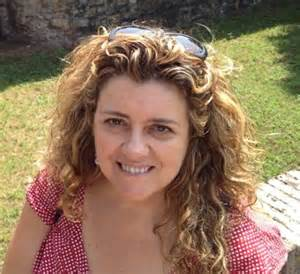
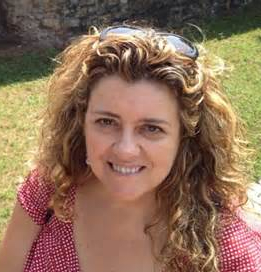
Adjust all team photos, new overlay effect

diff --git a/equipo/index.html b/equipo/index.html
@@ -224,14 +224,17 @@ author: URJCDataScience
 				<!-- Profesores row -->
 				<div class="row grid-space-10">
 					<div class="col-md-2 col-sm-6">
-						<div class="image-box team-member shadow-narrow mb-20 ph-20">
+						<div class="image-box team-member shadow-narrow mb-10 ph-10">
 							<div class="overlay-container ">
 								<img src="{{ site.baseurl }}images/profes/antonio_alonso.jpg" alt="">
-								<div class="overlay-to-top">
+								<div class="overlay-top">
 									<div class="text">
-										<p class="margin-clear">
-											Antonio Alonso Ayuso
-										</p>
+										<h3 class="small_white">Antonio Alonso Ayuso</h3>
+									</div>
+								</div>
+								<div class="overlay-bottom">
+									<div class="links">
+										<a href="portfolio-item.html" class="btn btn-gray-transparent btn-animated btn-sm">Info <i class="pl-10 fa fa-arrow-right"></i></a>
 									</div>
 								</div>
 							</div>
@@ -239,14 +242,17 @@ author: URJCDataScience
 					</div>
 					<!-- Profesor end -->
 					<div class="col-md-2 col-sm-6">
-						<div class="image-box team-member shadow-narrow mb-20 ph-20">
+						<div class="image-box team-member shadow-narrow mb-10 ph-10">
 							<div class="overlay-container ">
 								<img src="{{ site.baseurl }}images/profes/mbeltran.jpg" alt="">
-								<div class="overlay-to-top">
+								<div class="overlay-top">
 									<div class="text">
-										<p class="margin-clear">
-											Marta Beltrán Pardo
-										</p>
+										<h3 class="small_white">Marta Beltrán Pardo</h3>
+									</div>
+								</div>
+								<div class="overlay-bottom">
+									<div class="links">
+										<a href="portfolio-item.html" class="btn btn-gray-transparent btn-animated btn-sm">Info <i class="pl-10 fa fa-arrow-right"></i></a>
 									</div>
 								</div>
 							</div>
@@ -254,14 +260,17 @@ author: URJCDataScience
 					</div>
 					<!-- Profesor end -->
 					<div class="col-md-2 col-sm-6">
-						<div class="image-box team-member shadow-narrow mb-20 ph-20">
+						<div class="image-box team-member shadow-narrow mb-10 ph-10">
 							<div class="overlay-container ">
 								<img src="{{ site.baseurl }}images/profes/enrique_cabello.jpg" alt="">
-								<div class="overlay-to-top">
+								<div class="overlay-top">
 									<div class="text">
-										<p class="margin-clear">
-											Enrique Cabello Pardos
-										</p>
+										<h3 class="small_white">Enrique Cabello Pardos</h3>
+									</div>
+								</div>
+								<div class="overlay-bottom">
+									<div class="links">
+										<a href="portfolio-item.html" class="btn btn-gray-transparent btn-animated btn-sm">Info <i class="pl-10 fa fa-arrow-right"></i></a>
 									</div>
 								</div>
 							</div>
@@ -269,14 +278,17 @@ author: URJCDataScience
 					</div>
 					<!-- Profesor end -->
 					<div class="col-md-2 col-sm-6">
-						<div class="image-box team-member shadow-narrow mb-20 ph-20">
+						<div class="image-box team-member shadow-narrow mb-10 ph-10">
 							<div class="overlay-container ">
 								<img src="{{ site.baseurl }}images/profes/paloma_caceres.jpg" alt="">
-								<div class="overlay-to-top">
+								<div class="overlay-top">
 									<div class="text">
-										<p class="margin-clear">
-											Paloma Cáceres García de Marina
-										</p>
+										<h3 class="small_white">Paloma Cáceres García de Marina</h3>
+									</div>
+								</div>
+								<div class="overlay-bottom">
+									<div class="links">
+										<a href="portfolio-item.html" class="btn btn-gray-transparent btn-animated btn-sm">Info <i class="pl-10 fa fa-arrow-right"></i></a>
 									</div>
 								</div>
 							</div>
@@ -284,48 +296,57 @@ author: URJCDataScience
 					</div>
 					<!-- Profesor end -->
 					<div class="col-md-2 col-sm-6">
-						<div class="image-box team-member shadow-narrow mb-20 ph-20">
+						<div class="image-box team-member shadow-narrow mb-10 ph-10">
 							<div class="overlay-container ">
 								<img src="{{ site.baseurl }}images/profes/maria_eugenia.jpg" alt="">
-								<div class="overlay-to-top">
+								<div class="overlay-top">
 									<div class="text">
-										<p class="margin-clear">
-											María Eugenia Castellanos
-										</p>
+										<h3 class="small_white">María Eugenia Castellanos</h3>
+									</div>
+								</div>
+								<div class="overlay-bottom">
+									<div class="links">
+										<a href="portfolio-item.html" class="btn btn-gray-transparent btn-animated btn-sm">Info <i class="pl-10 fa fa-arrow-right"></i></a>
 									</div>
 								</div>
 							</div>
 						</div>
 					</div>
 					<!-- Profesor end -->
+				</div>
 				<!-- Row end -->
 				<!-- Profesores row -->
-				<div class="row grid-space-20">
+				<div class="row grid-space-10">
 					<div class="col-md-2 col-sm-6">
-						<div class="image-box team-member shadow-narrow mb-20 ph-20">
+						<div class="image-box team-member shadow-narrow mb-10 ph-10">
 							<div class="overlay-container ">
-								<img src="{{ site.baseurl }}images/profes/jmcavero.jpg" alt="">
-								<div class="overlay-to-top">
+								<img src="{{ site.baseurl }}images/profes/JMCB.jpg" alt="">
+								<div class="overlay-top">
 									<div class="text">
-										<p class="margin-clear">
-											José María Cavero Barca
-										</p>
+										<h3 class="small_white">José María Cavero Barca</h3>
+									</div>
+								</div>
+								<div class="overlay-bottom">
+									<div class="links">
+										<a href="portfolio-item.html" class="btn btn-gray-transparent btn-animated btn-sm">Info <i class="pl-10 fa fa-arrow-right"></i></a>
 									</div>
 								</div>
 							</div>
 						</div>
 					</div>
-				</div>
 				<!-- Profesor end -->
 					<div class="col-md-2 col-sm-6">
-						<div class="image-box team-member shadow-narrow mb-20 ph-20">
+						<div class="image-box team-member shadow-narrow mb-10 ph-10">
 							<div class="overlay-container ">
-								<img src="{{ site.baseurl }}images/profes/cristina_conde.jpg" alt="">
-								<div class="overlay-to-top">
+								<img src="{{ site.baseurl }}images/profes/CristinaConde.jpg" alt="">
+								<div class="overlay-top">
 									<div class="text">
-										<p class="margin-clear">
-											Cristina Conde Vilda
-										</p>
+										<h3 class="small_white">Cristina Conde Vilda</h3>
+									</div>
+								</div>
+								<div class="overlay-bottom">
+									<div class="links">
+										<a href="portfolio-item.html" class="btn btn-gray-transparent btn-animated btn-sm">Info <i class="pl-10 fa fa-arrow-right"></i></a>
 									</div>
 								</div>
 							</div>
@@ -333,14 +354,17 @@ author: URJCDataScience
 					</div>
 					<!-- Profesor end -->
 					<div class="col-md-2 col-sm-6">
-						<div class="image-box team-member shadow-narrow mb-20 ph-20">
+						<div class="image-box team-member shadow-narrow mb-10 ph-10">
 							<div class="overlay-container ">
 								<img src="{{ site.baseurl }}images/profes/abraham_duarte.jpg" alt="">
-								<div class="overlay-to-top">
+								<div class="overlay-top">
 									<div class="text">
-										<p class="margin-clear">
-											Abraham Duarte
-										</p>
+										<h3 class="small_white">Abraham Duarte</h3>
+									</div>
+								</div>
+								<div class="overlay-bottom">
+									<div class="links">
+										<a href="portfolio-item.html" class="btn btn-gray-transparent btn-animated btn-sm">Info <i class="pl-10 fa fa-arrow-right"></i></a>
 									</div>
 								</div>
 							</div>
@@ -348,14 +372,17 @@ author: URJCDataScience
 					</div>
 					<!-- Profesor end -->
 					<div class="col-md-2 col-sm-6">
-						<div class="image-box team-member shadow-narrow mb-20 ph-20">
+						<div class="image-box team-member shadow-narrow mb-10 ph-10">
 							<div class="overlay-container ">
 								<img src="{{ site.baseurl }}images/profes/micael_gallego.jpg" alt="">
-								<div class="overlay-to-top">
+								<div class="overlay-top">
 									<div class="text">
-										<p class="margin-clear">
-											Micael Gallego
-										</p>
+										<h3 class="small_white">Micael Gallego</h3>
+									</div>
+								</div>
+								<div class="overlay-bottom">
+									<div class="links">
+										<a href="portfolio-item.html" class="btn btn-gray-transparent btn-animated btn-sm">Info <i class="pl-10 fa fa-arrow-right"></i></a>
 									</div>
 								</div>
 							</div>
@@ -363,14 +390,17 @@ author: URJCDataScience
 					</div>
 					<!-- Profesor end -->
 					<div class="col-md-2 col-sm-6">
-						<div class="image-box team-member shadow-narrow mb-20 ph-20">
+						<div class="image-box team-member shadow-narrow mb-10 ph-10">
 							<div class="overlay-container ">
 								<img src="{{ site.baseurl }}images/profes/patxi_gortazar.jpeg" alt="">
-								<div class="overlay-to-top">
+								<div class="overlay-top">
 									<div class="text">
-										<p class="margin-clear">
-											Francisco Gortázar
-										</p>
+										<h3 class="small_white">Francisco Gortázar</h3>
+									</div>
+								</div>
+								<div class="overlay-bottom">
+									<div class="links">
+										<a href="portfolio-item.html" class="btn btn-gray-transparent btn-animated btn-sm">Info <i class="pl-10 fa fa-arrow-right"></i></a>
 									</div>
 								</div>
 							</div>
@@ -380,16 +410,19 @@ author: URJCDataScience
 				</div>
 				<!-- Row end -->
 				<!-- Profesores row -->
-				<div class="row grid-space-20">
+				<div class="row grid-space-10">
 					<div class="col-md-2 col-sm-6">
-						<div class="image-box team-member shadow-narrow mb-20 ph-20">
+						<div class="image-box team-member shadow-narrow mb-10 ph-10">
 							<div class="overlay-container ">
 								<img src="{{ site.baseurl }}images/profes/javier_moguerza.jpg" alt="">
-								<div class="overlay-to-top">
+								<div class="overlay-top">
 									<div class="text">
-										<p class="margin-clear">
-											Javier M. Moguerza
-										</p>
+										<h3 class="small_white">Javier M. Moguerza</h3>
+									</div>
+								</div>
+								<div class="overlay-bottom">
+									<div class="links">
+										<a href="portfolio-item.html" class="btn btn-gray-transparent btn-animated btn-sm">Info <i class="pl-10 fa fa-arrow-right"></i></a>
 									</div>
 								</div>
 							</div>
@@ -397,14 +430,17 @@ author: URJCDataScience
 					</div>
 					<!-- Profesor end -->
 					<div class="col-md-2 col-sm-6">
-						<div class="image-box team-member shadow-narrow mb-20 ph-20">
+						<div class="image-box team-member shadow-narrow mb-10 ph-10">
 							<div class="overlay-container ">
 								<img src="{{ site.baseurl }}images/profes/soto_montalvo.jpg" alt="">
-								<div class="overlay-to-top">
+								<div class="overlay-top">
 									<div class="text">
-										<p class="margin-clear">
-											Soto Montalvo
-										</p>
+										<h3 class="small_white">Soto Montalvo</h3>
+									</div>
+								</div>
+								<div class="overlay-bottom">
+									<div class="links">
+										<a href="portfolio-item.html" class="btn btn-gray-transparent btn-animated btn-sm">Info <i class="pl-10 fa fa-arrow-right"></i></a>
 									</div>
 								</div>
 							</div>
@@ -412,30 +448,35 @@ author: URJCDataScience
 					</div>
 					<!-- Profesor end -->
 					<div class="col-md-2 col-sm-6">
-						<div class="image-box team-member shadow-narrow mb-20 ph-20">
+						<div class="image-box team-member shadow-narrow mb-10 ph-10">
 							<div class="overlay-container ">
-								<img src="{{ site.baseurl }}images/team-member-1.jpg" alt="">
-								<div class="overlay-to-top">
+								<img src="{{ site.baseurl }}images/profes/pilar_romay.jpeg" alt="">
+								<div class="overlay-top">
 									<div class="text">
-										<p class="margin-clear">
-											Pilar Romay
-										</p>
+										<h3 class="small_white">Pilar Romay</h3>
+									</div>
+								</div>
+								<div class="overlay-bottom">
+									<div class="links">
+										<a href="portfolio-item.html" class="btn btn-gray-transparent btn-animated btn-sm">Info <i class="pl-10 fa fa-arrow-right"></i></a>
 									</div>
 								</div>
 							</div>
 						</div>
 					</div>
 					<!-- Profesor end -->
-					<!--
 					<div class="col-md-2 col-sm-6">
-						<div class="image-box team-member shadow-narrow mb-20 ph-20">
+						<div class="image-box team-member shadow-narrow mb-10 ph-10">
 							<div class="overlay-container ">
-								<img src="{{ site.baseurl }}images/team-member-1.jpg" alt="">
-								<div class="overlay-to-top">
+								<img src="{{ site.baseurl }}images/profes/almudena_sierra.jpg" alt="">
+								<div class="overlay-top">
 									<div class="text">
-										<p class="margin-clear">
-											Profesor
-										</p>
+										<h3 class="small_white">Almudena Sierra Alonso</h3>
+									</div>
+								</div>
+								<div class="overlay-bottom">
+									<div class="links">
+										<a href="portfolio-item.html" class="btn btn-gray-transparent btn-animated btn-sm">Info <i class="pl-10 fa fa-arrow-right"></i></a>
 									</div>
 								</div>
 							</div>

diff --git a/css/custom.css b/css/custom.css
@@ -55,3 +55,7 @@ img.urjc-image-side {
   -o-transition: all 0.3s ease-in-out;
   transition: all 0.3s ease-in-out;
 }
+
+.overlay-container .text {
+	top: 20%;
+}
